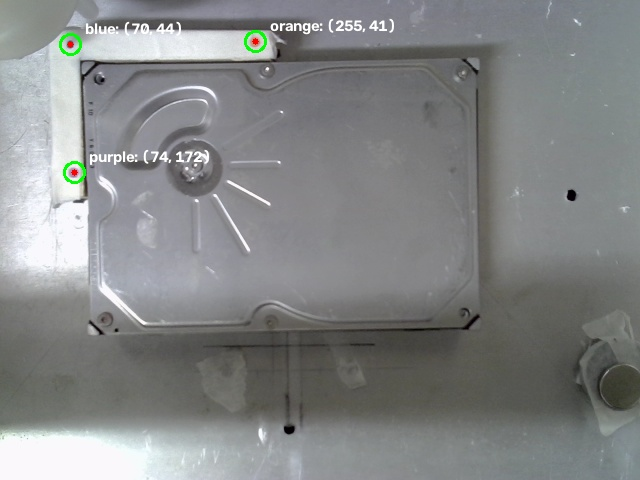
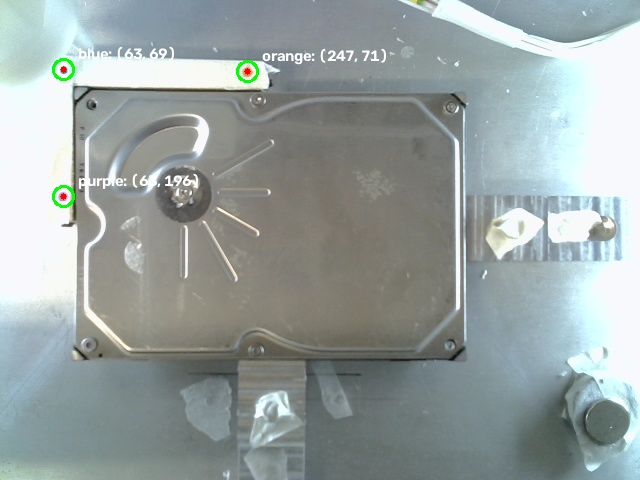
don't leave me

diff --git a/find_screws.py b/find_screws.py
@@ -7,7 +7,7 @@ from itertools import permutations
 os.environ["QT_LOGGING_RULES"] = "qt.qpa.fonts.warning=false"
 
 # Total number of screws to unscrew the hard drive
-TOTAL_SCREWS = 4
+TOTAL_SCREWS = 5
 
 # x-coordinate for origin of L-fixture
 X_ORIGIN = 74 #137
@@ -42,9 +42,9 @@ DOTS_MM = {
 }
 
 DOT_RANGES = {
-    "purple":    (30, 100, 150, 200),
-    "blue":  (30, 100, 10, 70),
-    "orange":   (230, 280, 10, 70),
+    "purple":    (10, 100, 150, 230),
+    "blue":  (10, 100, 10, 100),
+    "orange":   (210, 280, 10, 100),
 }
 
 
@@ -581,11 +581,11 @@ def refine_screw_center(frame, box):
     # Detect circles
     circles = cv2.HoughCircles(
         blurred,
-        cv2.HOUGH_GRADIENT,
-        dp=1.2,
+        cv2.HOUGH_GRADIENT_ALT,
+        dp=1,
         minDist=max(8, min_dim // 2),
-        param1=100,
-        param2=25,
+        param1=70,
+        param2=0.7,
         minRadius=min_radius,
         maxRadius=max_radius
     )
